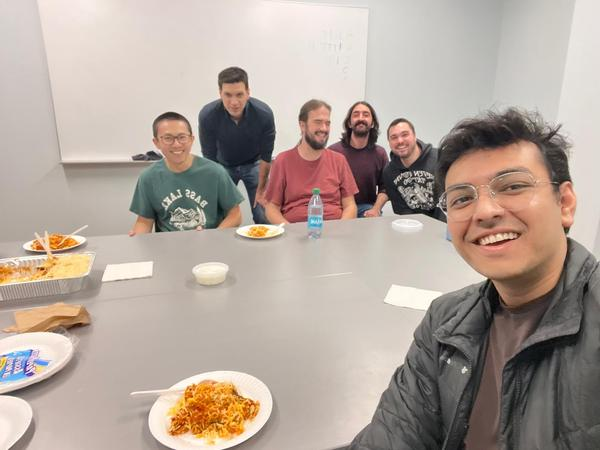
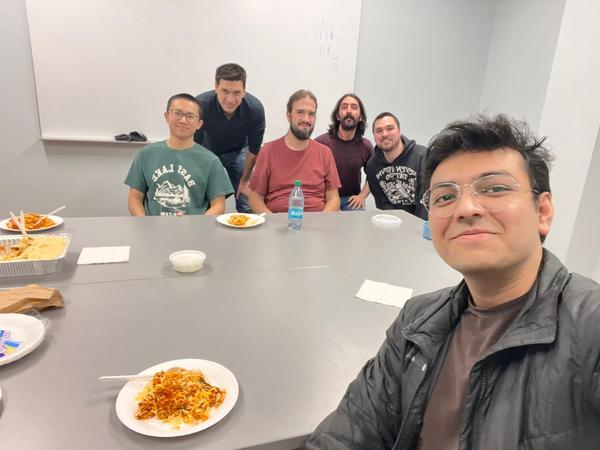
Remove duplicate PhilPapers lunch photo

diff --git a/index.html b/index.html
@@ -113,12 +113,7 @@
           </li>
           <li>
             <a class="gallery-item glightbox" href="assets/img/experience/philpapers/wednesday-lunch-01.jpg" data-gallery="western-university" data-description="Wednesday team lunch at the office">
-              <img src="assets/img/experience/philpapers/thumbs/wednesday-lunch-01.jpg" loading="lazy" decoding="async" alt="Colleagues around a table during a team lunch">
-            </a>
-          </li>
-          <li>
-            <a class="gallery-item glightbox" href="assets/img/experience/philpapers/wednesday-lunch-02.jpg" data-gallery="western-university" data-description="Wednesday team lunch at the office">
-              <img src="assets/img/experience/philpapers/thumbs/wednesday-lunch-02.jpg" loading="lazy" decoding="async" alt="The team gathered for a weekly lunch">
+              <img src="assets/img/experience/philpapers/thumbs/wednesday-lunch-01.jpg" loading="lazy" decoding="async" alt="The team gathered for a weekly lunch">
             </a>
           </li>
         </ul>
